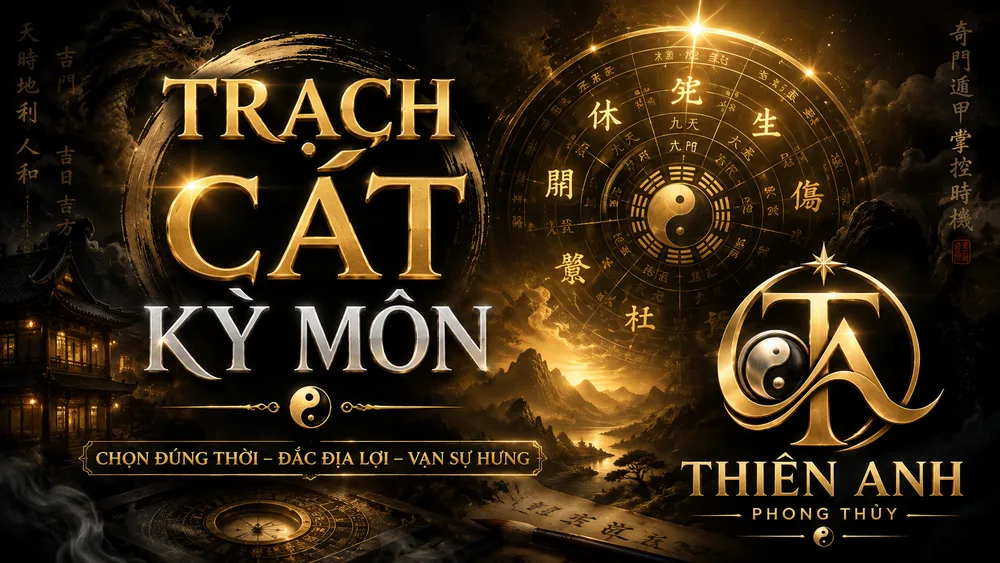
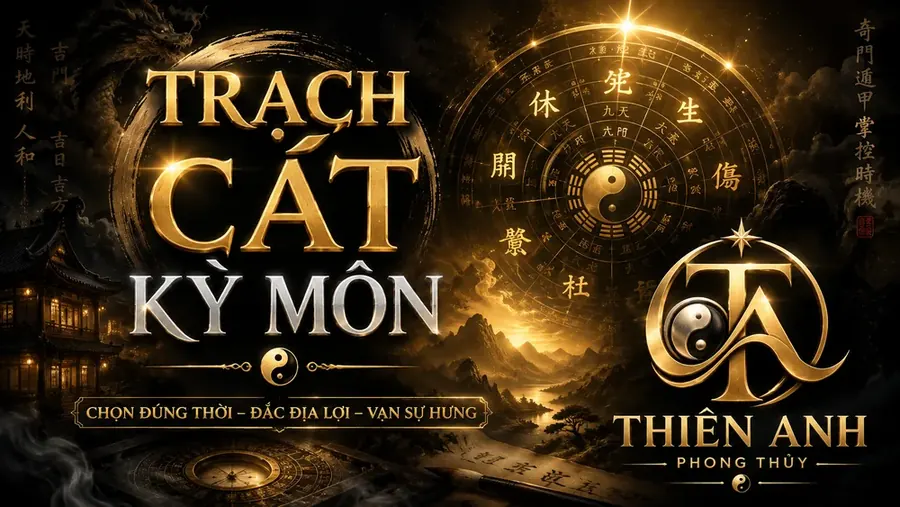
feat: them la so Tu Vi vao PDF+trang ket qua; fix nut mua Nang Cao bi an voi khach thuong
- Them hinh la so Tu Vi 12 cung (luoi 4x4, mau theo diem engine, cat/hung phu tinh tra
  TRUNG_TINH_CAT/HUNG co san) vao ca PDF (Co Ban + Nang Cao dung chung veCoBan) va trang
  ket qua (chi admin xem truc tiep) - PDF da tu dong gui qua email nen khong can sua rieng.
  Adapter.ts bo sung chiIndex/gioChiName/tuTru/tuoiKhoiHan tu du lieu engine co san
  (khong bia them ly thuyet moi).
- Fix bug: nut "Xem Luan Nang Cao" o ca 2 module (Luan Giai Tu Vi, Luan Giai Bat Tu Toan
  Dien) truoc day chi nam trong khoi bao cao admin-only - khach thuong da mua Co Ban
  khong co cach nao bam mua Nang Cao tren trang.
- Resize anh trach-cat-ky-mon.webp giam ~35% dung luong, giu nguyen chat luong hien thi.

diff --git a/src/lib/tu-vi/luan-giai/bieuDoPdf.ts b/src/lib/tu-vi/luan-giai/bieuDoPdf.ts
@@ -1,9 +1,12 @@
 // Bản vẽ PDF (pdf-lib) tương ứng bieuDo.ts — dùng CHUNG hình học (toaDoDinh) và màu (mauTheoDiem) với
 // bản SVG trên web để 2 nơi không lệch nhau, chỉ khác kỹ thuật vẽ (đường/hình thay vì thẻ SVG).
 
-import { rgb } from "pdf-lib";
-import { A4, LE, MAU, hex, type But, type Fonts } from "../../dai-cat-loi/pdf-khung";
+import { rgb, type RGB } from "pdf-lib";
+import { A4, LE, MAU, hex, catVua, type But, type Fonts } from "../../dai-cat-loi/pdf-khung";
 import { mauTheoDiem, toaDoDinh, NHAN_RADAR_6 } from "./bieuDo";
+import type { DuLieuLaSoTuVi, CungDuLieu } from "./adapter";
+import { GIO_RANGE_THEO_CHI } from "./adapter";
+import { TRUNG_TINH_CAT, TRUNG_TINH_HUNG } from "./chamDiem";
 
 const XAM_NHAT = rgb(0.75, 0.72, 0.66);
 
@@ -98,4 +101,148 @@ export function veThanhDaiHanPdf(
   const chu90 = "90 tuổi";
   b.page.drawText(chu90, { x: A4.w - LE - f.thuong.widthOfTextAtSize(chu90, 7.5), y: b.y, size: 7.5, font: f.thuong, color: MAU.mucNhat });
   b.xuong(14);
+}
+
+// --- Lá số Tử Vi 12 cung (lưới 4×4) — bản PDF của LaSoTuViGrid.astro (web), cùng dữ liệu/cùng
+// nguyên tắc màu (cát/bình/hung theo điểm engine, cát/hung phụ tinh theo TRUNG_TINH_CAT/HUNG). ---
+
+const NEN_O: Record<"cat" | "binh" | "hung", RGB> = { cat: hex("#F0FDF4"), binh: hex("#FFFFFF"), hung: hex("#FEF2F2") };
+const VIEN_O: Record<"cat" | "binh" | "hung", RGB> = { cat: hex("#86EFAC"), binh: hex("#E2E8F0"), hung: hex("#FCA5A5") };
+const NHAN_DG_O: Record<"cat" | "binh" | "hung", { chu: string; mau: RGB }> = {
+  cat: { chu: "Tốt", mau: hex("#166534") },
+  binh: { chu: "Bình", mau: hex("#64748B") },
+  hung: { chu: "Cần lưu ý", mau: hex("#B91C1C") },
+};
+const MAU_TRANG_THAI_O: Record<string, RGB> = {
+  "Miếu": hex("#166534"), "Vượng": hex("#15803D"), "Đắc": hex("#0369A1"), "Bình": hex("#64748B"), "Hãm": hex("#B91C1C"),
+};
+const MAU_VANG_DAM = hex("#B8860B");
+
+/** Vị trí (hàng, cột) 1-indexed trong lưới 4×4, hàng 1 ở trên cùng — khớp bố cục CSS grid-area
+ *  của bản web (Tỵ-Ngọ-Mùi-Thân hàng trên, Dần-Sửu-Tý-Hợi hàng dưới). */
+const VI_TRI_PDF: Record<number, [number, number]> = {
+  5: [1, 1], 6: [1, 2], 7: [1, 3], 8: [1, 4],
+  4: [2, 1], 9: [2, 4],
+  3: [3, 1], 10: [3, 4],
+  2: [4, 1], 1: [4, 2], 0: [4, 3], 11: [4, 4],
+};
+
+function danhGiaCuaPdf(diem: number): "cat" | "binh" | "hung" {
+  if (diem >= 4) return "cat";
+  if (diem === 3) return "binh";
+  return "hung";
+}
+
+function textGiuaO(
+  page: But["page"],
+  text: string,
+  font: Fonts["thuong"],
+  size: number,
+  cx: number,
+  y: number,
+  color: RGB,
+  rongToiDa: number,
+): void {
+  const chu = catVua(text, font, size, rongToiDa);
+  page.drawText(chu, { x: cx - font.widthOfTextAtSize(chu, size) / 2, y, size, font, color });
+}
+
+function veOCung(b: But, f: Fonts, c: CungDuLieu, x: number, yTop: number, cw: number, ch: number): void {
+  const dg = danhGiaCuaPdf(c.diem);
+  b.page.drawRectangle({ x, y: yTop - ch, width: cw, height: ch, color: NEN_O[dg] });
+  b.page.drawRectangle({
+    x, y: yTop - ch, width: cw, height: ch,
+    borderColor: c.isMenh ? MAU_VANG_DAM : VIEN_O[dg],
+    borderWidth: c.isMenh ? 1.6 : 1,
+  });
+
+  const padX = 5;
+  const cx = x + cw / 2;
+  let y = yTop - 11;
+
+  // Dòng đầu: Can Chi (trái) + khoảng tuổi Đại Hạn (phải).
+  b.page.drawText(`${c.canThienBan} ${c.chi}`, { x: x + padX, y, size: 6.5, font: f.dam, color: MAU.mucNhat });
+  const dvText = `${c.daiVanTuoi[0]}–${c.daiVanTuoi[1]}`;
+  b.page.drawText(dvText, { x: x + cw - padX - f.dam.widthOfTextAtSize(dvText, 6.5), y, size: 6.5, font: f.dam, color: MAU.mucNhat });
+  y -= 11;
+
+  // Tên cung (+ THÂN nếu trùng).
+  textGiuaO(b.page, `${c.ten}${c.isThan ? " · THÂN" : ""}`, f.dam, 7.5, cx, y, c.isMenh ? MAU_VANG_DAM : MAU.muc, cw - padX * 2);
+  y -= 12;
+
+  // Chính tinh — tối đa 2 dòng để không tràn ô.
+  if (c.chinhTinh.length === 0) {
+    textGiuaO(b.page, "Vô Chính Diệu", f.nghieng, 7.5, cx, y, hex("#94A3B8"), cw - padX * 2);
+    y -= 11;
+  } else {
+    for (const s of c.chinhTinh.slice(0, 2)) {
+      textGiuaO(b.page, `${s.ten} (${s.trangThai})`, f.dam, 7.5, cx, y, MAU_TRANG_THAI_O[s.trangThai] ?? MAU.muc, cw - padX * 2);
+      y -= 10;
+    }
+  }
+
+  // Badge Hóa/cát/hung — gộp thành 1 dòng ngắn gọn, cắt cho vừa.
+  const nhan: string[] = [];
+  for (const s of c.chinhTinh) if (s.tuHoa) nhan.push(`Hóa ${s.tuHoa}`);
+  for (const s of c.phuTinh) if (s.tuHoa) nhan.push(`Hóa ${s.tuHoa}`);
+  const catTinh = c.phuTinh.filter((s) => TRUNG_TINH_CAT.has(s.ten)).map((s) => s.ten);
+  const hungTinh = c.phuTinh.filter((s) => TRUNG_TINH_HUNG.has(s.ten)).map((s) => s.ten);
+  const dongPhu = [...nhan, ...catTinh, ...hungTinh].join(" · ");
+  if (dongPhu) {
+    textGiuaO(b.page, dongPhu, f.thuong, 6, cx, y, MAU.mucNhat, cw - padX * 2);
+  }
+
+  // Chân ô: Tuần/Triệt (trái) + đánh giá (phải).
+  const yChan = yTop - ch + 8;
+  const tt = c.tuan && c.triet ? "TUẦN·TRIỆT" : c.tuan ? "TUẦN" : c.triet ? "TRIỆT" : "";
+  if (tt) b.page.drawText(tt, { x: x + padX, y: yChan, size: 6, font: f.dam, color: hex("#B45309") });
+  const nhanDg = NHAN_DG_O[dg].chu;
+  b.page.drawText(nhanDg, {
+    x: x + cw - padX - f.dam.widthOfTextAtSize(nhanDg, 6),
+    y: yChan, size: 6, font: f.dam, color: NHAN_DG_O[dg].mau,
+  });
+}
+
+/** Lá số Tử Vi 12 cung — lưới 4×4, giữa là ô thông tin chung (Mệnh/Cục/Tứ trụ/Khởi đại hạn). */
+export function veLaSoPdf(b: But, f: Fonts, duLieu: DuLieuLaSoTuVi): void {
+  const cw = (A4.w - LE * 2) / 4;
+  const ch = 90;
+  b.chua(ch * 4 + 6);
+  const top = b.y;
+
+  for (const c of duLieu.cung) {
+    const [row, col] = VI_TRI_PDF[c.chiIndex];
+    veOCung(b, f, c, LE + (col - 1) * cw, top - (row - 1) * ch, cw, ch);
+  }
+
+  // Ô giữa (2×2, hàng 2-3 / cột 2-3) — nền đậm, chữ vàng, thông tin chung.
+  const midX = LE + cw;
+  const midY = top - ch;
+  const midW = cw * 2;
+  const midH = ch * 2;
+  b.page.drawRectangle({ x: midX, y: midY - midH, width: midW, height: midH, color: hex("#2b2013") });
+  b.page.drawRectangle({ x: midX, y: midY - midH, width: midW, height: midH, borderColor: MAU_VANG_DAM, borderWidth: 1.2 });
+  const cxMid = midX + midW / 2;
+  let yMid = midY - 22;
+  const khungGio = GIO_RANGE_THEO_CHI[duLieu.gioChiName] ?? "";
+  textGiuaO(b.page, "LÁ SỐ TỬ VI", f.dam, 10, cxMid, yMid, hex("#e8cf8f"), midW - 16); yMid -= 16;
+  textGiuaO(b.page, `${duLieu.ngaySinhDuong} · giờ ${duLieu.gioSinh}h (${duLieu.gioChiName}${khungGio ? `, ${khungGio}` : ""})`, f.thuong, 7.5, cxMid, yMid, rgb(1, 1, 1), midW - 16); yMid -= 16;
+  textGiuaO(b.page, "Tứ trụ", f.thuong, 7, cxMid, yMid, hex("#c9bda3"), midW - 16); yMid -= 11;
+  textGiuaO(b.page, duLieu.tuTru, f.dam, 8, cxMid, yMid, rgb(1, 1, 1), midW - 16); yMid -= 18;
+  textGiuaO(b.page, `${duLieu.cucName} — ${duLieu.banMenhNapAm}`, f.dam, 8.5, cxMid, yMid, hex("#e8cf8f"), midW - 16); yMid -= 13;
+  textGiuaO(b.page, `Khởi đại hạn: ${duLieu.tuoiKhoiHan} tuổi`, f.thuong, 7.5, cxMid, yMid, hex("#c9bda3"), midW - 16);
+
+  b.y = top - ch * 4 - 8;
+
+  // Chú giải màu.
+  const chu: [string, RGB, RGB][] = [
+    ["Cung tốt", NEN_O.cat, VIEN_O.cat], ["Bình", NEN_O.binh, VIEN_O.binh], ["Cần lưu ý", NEN_O.hung, VIEN_O.hung],
+  ];
+  let xChu = LE;
+  for (const [nhanChu, nen, vien] of chu) {
+    b.page.drawRectangle({ x: xChu, y: b.y - 8, width: 8, height: 8, color: nen, borderColor: vien, borderWidth: 1 });
+    b.page.drawText(nhanChu, { x: xChu + 11, y: b.y - 7, size: 7, font: f.thuong, color: MAU.mucNhat });
+    xChu += 11 + f.thuong.widthOfTextAtSize(nhanChu, 7) + 14;
+  }
+  b.xuong(16);
 }

diff --git a/src/lib/tu-vi/luan-giai/adapter.ts b/src/lib/tu-vi/luan-giai/adapter.ts
@@ -16,6 +16,7 @@ import { quanHeMenhCuc } from "./tongQuanFree";
 export type CungDuLieu = {
   ten: string;
   chi: string;
+  chiIndex: number;
   canThienBan: string;
   isMenh: boolean;
   isThan: boolean;
@@ -36,11 +37,21 @@ export type CungDuLieu = {
 
 export type MocHan = { tuoi: number; tenCung: string; chi: string; diem: number };
 
+/** Khung giờ (giờ địa phương) ứng với mỗi Chi — quy ước lịch cổ truyền cố định, không phụ thuộc lá số. */
+export const GIO_RANGE_THEO_CHI: Record<string, string> = {
+  "Tý": "23h-1h", "Sửu": "1h-3h", "Dần": "3h-5h", "Mão": "5h-7h",
+  "Thìn": "7h-9h", "Tỵ": "9h-11h", "Ngọ": "11h-13h", "Mùi": "13h-15h",
+  "Thân": "15h-17h", "Dậu": "17h-19h", "Tuất": "19h-21h", "Hợi": "21h-23h",
+};
+
 export type DuLieuLaSoTuVi = {
   hoTen: string;
   gioiTinh: "Nam" | "Nữ";
   ngaySinhDuong: string;
   gioSinh: number;
+  gioChiName: string;
+  tuTru: string;
+  tuoiKhoiHan: number;
   amDuongNam: string;
   banMenhNapAm: string;
   banMenhElement: string;
@@ -66,6 +77,7 @@ function chuyenDoiCung(chart: TuViChart, c: CungKetQua, ct: ChiTietChamDiem, coH
   return {
     ten: c.cungName,
     chi: c.chiName,
+    chiIndex: c.chiIndex,
     canThienBan: c.canName,
     isMenh: c.isMenh,
     isThan: c.isThan,
@@ -136,12 +148,16 @@ export function dungDuLieuLaSo(chart: TuViChart, cham: KetQuaChamDiem, hoTen: st
   };
 
   const pad = (n: number) => String(n).padStart(2, "0");
+  const tenTru = (p: { can: string; chi: string }) => `${p.can} ${p.chi}`;
 
   return {
     hoTen: hoTen || "quý khách",
     gioiTinh: chart.input.gender,
     ngaySinhDuong: `${pad(chart.input.day)}/${pad(chart.input.month)}/${chart.input.year}`,
     gioSinh: chart.input.hour,
+    gioChiName: chart.gioChiName,
+    tuTru: `${tenTru(chart.yearPillar)} · ${tenTru(chart.monthPillar)} · ${tenTru(chart.dayPillar)} · ${tenTru(chart.hourPillar)}`,
+    tuoiKhoiHan: chart.cucSo,
     amDuongNam: chart.amDuongNam,
     banMenhNapAm: chart.banMenhNapAm,
     banMenhElement: chart.banMenhElement,

diff --git a/src/lib/tu-vi/luan-giai/chamDiem.ts b/src/lib/tu-vi/luan-giai/chamDiem.ts
@@ -18,13 +18,13 @@ import type { CungKetQua, TuViChart } from "../engine";
  * 2★ và KHÔNG cung nào đạt 5★. Cả hai ví dụ thực hành trong chính tài liệu đó đều đếm chúng là cát
  * (VD1 kể "Lộc Tồn", VD2 kể "Thiên Mã"), nên đây là căn cứ chắc chắn chứ không phải suy diễn.
  */
-const TRUNG_TINH_CAT = new Set([
+export const TRUNG_TINH_CAT = new Set([
   "Thiên Khôi", "Thiên Việt", "Tả Phù", "Tả Phụ", "Hữu Bật", "Văn Xương", "Văn Khúc",
   "Lộc Tồn", "Thiên Mã",
 ]);
 
 /** Trung tinh HUNG. Tuần/Triệt xét riêng vì là cờ của cung, không nằm trong danh sách sao. */
-const TRUNG_TINH_HUNG = new Set([
+export const TRUNG_TINH_HUNG = new Set([
   "Kình Dương", "Đà La", "Linh Tinh", "Hỏa Tinh", "Địa Không", "Địa Kiếp",
 ]);
 

diff --git a/src/lib/tu-vi/luan-giai/pdf.ts b/src/lib/tu-vi/luan-giai/pdf.ts
@@ -7,7 +7,7 @@ import type { KetQuaCoBan, LuanCung } from "./aiCoBan";
 import { TEN_CUNG_HIEN_THI, TEN_CUNG_SNAKE } from "./aiCoBan";
 import type { KetQuaNangCao, LuanHan } from "./aiNangCao";
 import type { DuLieuLaSoTuVi } from "./adapter";
-import { veRadarPdf, veThanhDaiHanPdf, veThanhDiem12CungPdf } from "./bieuDoPdf";
+import { veRadarPdf, veThanhDaiHanPdf, veThanhDiem12CungPdf, veLaSoPdf } from "./bieuDoPdf";
 
 function veCungLuan(b: But, f: Fonts, ten: string, diem: number, l: LuanCung): void {
   b.chua(60);
@@ -38,6 +38,9 @@ function veCoBan(b: But, f: Fonts, coBan: KetQuaCoBan, duLieu: DuLieuLaSoTuVi): 
     { size: 9.5, font: f.vua },
   );
   b.xuong(4);
+
+  b.muc("Lá số Tử Vi");
+  veLaSoPdf(b, f, duLieu);
 
   b.muc("Luận Thiên Bàn");
   b.doan(coBan.luanThienBan, { size: 9.5 });
